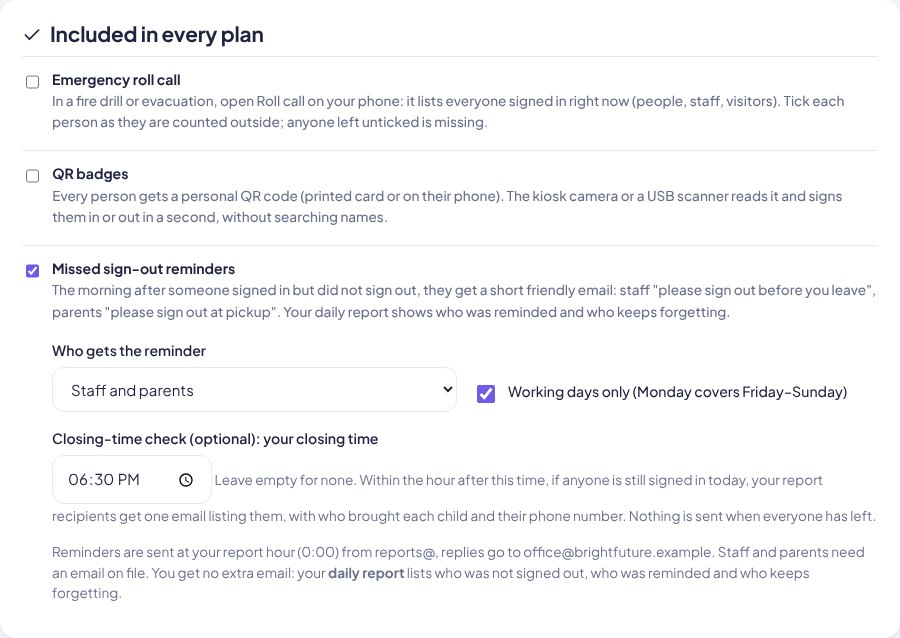
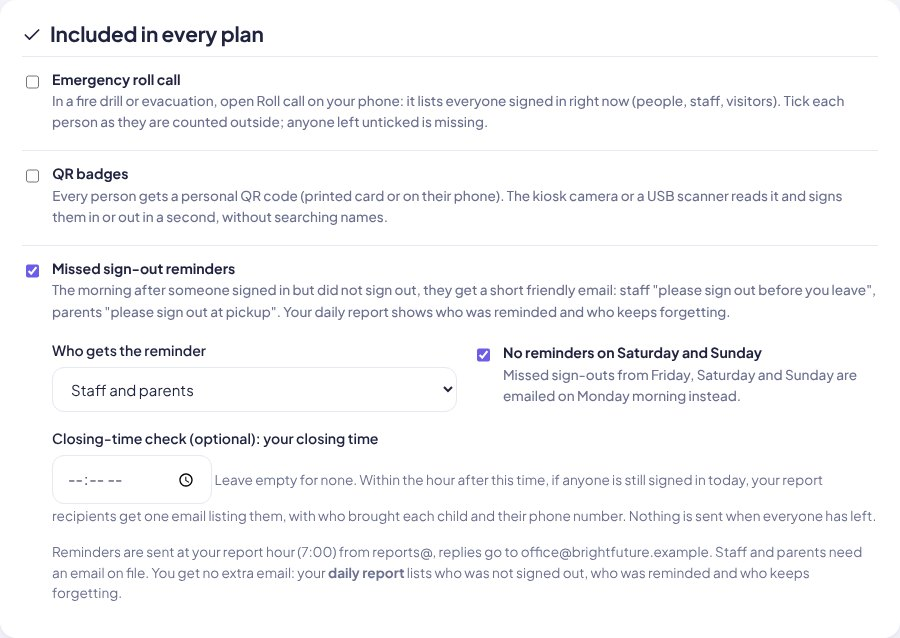
Reminders: plain wording for the weekend setting
"No reminders on Saturday and Sunday" with the explanation that Friday
to Sunday misses are emailed on Monday morning.

Claude-Session: https://claude.ai/code/session_01CfwtLEiwkJ5XMzWhTrgi97

Changed region(s): [[0.5289, 0.5361, 0.9644, 0.6552], [0.3422, 0.8339, 0.9644, 0.8934], [0.0622, 0.7445, 0.1556, 0.7743]]

diff --git a/docs/confluence/07-customer-portal.html b/docs/confluence/07-customer-portal.html
@@ -67,7 +67,7 @@
 <img src="{{IMGROOT}}/screens/51-admin-reminders-settings.jpg" alt="Missed sign-out reminder settings" width="900">
 <ol>
 <li><strong>Who gets the reminder:</strong> Staff and parents, Staff only, or Parents and guardians only.</li>
-<li><strong>Working days only</strong> (on by default): nothing at weekends; Monday's email covers Friday to Sunday.</li>
+<li><strong>No reminders on Saturday and Sunday</strong> (on by default): missed sign-outs from Friday, Saturday and Sunday are emailed on Monday morning instead. Untick it if you are open at weekends and want reminders every day.</li>
 <li><strong>When:</strong> the next morning at the portal's report hour (7:00 by default, in the portal's time zone), from reports@. Replies go to the portal's first report recipient (or the owner).</li>
 <li><strong>Who is emailed:</strong> the staff member (email on their staff record), or the parent/guardian who did the drop-off (email on the guardian record). Authorized relatives, visitors and people without an email are not emailed. One reminder per person per day.</li>
 <li><strong>Families can stop them</strong> with the link at the bottom of their email.</li>

diff --git a/app/views/admin/features.php b/app/views/admin/features.php
@@ -23,7 +23,7 @@ $toggle = function (string $key, array $f, bool $usable) use ($on) {
         <div class="grid c2" style="margin:0 0 12px 30px">
           <div class="field" style="margin:0"><label for="r-mode">Who gets the reminder</label>
             <select id="r-mode" name="signout_mode"><?php foreach (REMINDER_MODES as $mk => $ml): ?><option value="<?= e($mk) ?>" <?= ($t['signout_mode'] ?? 'both') === $mk ? 'selected' : '' ?>><?= e($ml) ?></option><?php endforeach; ?></select></div>
-          <label class="check" style="align-self:end"><input type="checkbox" name="signout_weekdays" value="1" <?= ($t['signout_weekdays'] ?? 1) ? 'checked' : '' ?>> <span>Working days only (Monday covers Friday–Sunday)</span></label>
+          <label class="check" style="align-self:end"><input type="checkbox" name="signout_weekdays" value="1" <?= ($t['signout_weekdays'] ?? 1) ? 'checked' : '' ?>> <span><b>No reminders on Saturday and Sunday</b><br><span class="muted small">Missed sign-outs from Friday, Saturday and Sunday are emailed on Monday morning instead.</span></span></label>
           <div class="field" style="margin:0;grid-column:1 / -1"><label for="r-close">Closing-time check (optional): your closing time</label>
             <input type="time" id="r-close" name="closing_time" value="<?= e(substr((string) ($t['closing_time'] ?? ''), 0, 5)) ?>" style="max-width:160px">
             <span class="muted small">Leave empty for none. Within the hour after this time, if anyone is still signed in today, your report recipients get one email listing them, with who brought each child and their phone number. Nothing is sent when everyone has left.</span></div>

diff --git a/docs/MASTER_GUIDE.md b/docs/MASTER_GUIDE.md
@@ -45,7 +45,7 @@ clinic, gym…) gets its own portal at `name.clockinoutapp.com`.
 | **Trial follow-up** | `app/lib/nurture.php`, run hourly. Emails the trial owner once per step, at most one a day, only 9:00–17:00 in the customer's time zone (portal setting, kiosk device, else their state): *import* (day 1+, no own people yet), *kiosk* (day 2+, no check-ins), *two-days* and *last-day* (with the optional promotion line). Alerts you (8:00–18:00 your time) when a trial has no check-ins after 2 days or ends tomorrow, with owner, people, check-ins and source. Every Monday from 8:00 in your time zone (`outreach_tz`) emails you a scorecard: new sign-ups, payments, paying customers, MRR, sign-ups and leads by source, open trials. Never emails paying customers or the demo. Sent emails are logged in `nurture_log`. On/off and promotion line in `/super → Settings`. |
 | **Provider alerts** | To the contact mailbox, with a copy to `alert_emails` (`provider_alert()`, `alert_copies()` in `app/lib/mailer.php`): new sign-up, card subscription, payment received, payment failed (subject starts with ACTION), cancellation, demo request, invoice request, feature request, subdomain to-do, trial alerts, Monday scorecard, suspicious-activity report, recovery-code and break-glass sign-ins. |
 | **Sales dashboard** | `/super/sales` (`app/lib/sales.php`, `app/controllers/sales.php`, `app/views/platform/super_sales.php`). Any date range (last 7/30/90 days, this or last month, this year, custom) by day, week or month, in `outreach_tz`. Headline cards with change against the previous period of equal length: prospects found, emails sent, delivered %, clicked %, replied %, demos, sign-ups (opens only when turned on); rate rings and a funnel (emailed → delivered → clicked → replied → demo → signed up); one small chart per measure over time (found, sent, people who clicked, replies, demos and sign-ups; hover for values); where every prospect stands today; which business types and states answer (emailed, bounced, clicked, replied, interested, signed up); all sources (website demo requests, trials, paying customers from outreach). Data: `prospect_events`, written by `prospect_event()` from the finder (`found`), the hourly send (`sent`), the inbox check (`bounced`, `replied`), tracked links (`clicked`), unsubscribe, the demo and sign-up forms (`prospect_converted()`) and status changes in /super → Prospects. **Clicks:** links in outreach emails go through `GET /r?t=<token>&s=<step>&to=signup|demo|home` (fixed targets, no open redirect), which counts people, not clicks, and ignores link scanners (bot user agents, HEAD, within 90 s of sending) and your own preview clicks. **Opens:** optional 1×1 image `GET /o?t=…` only when `outreach_track_opens` is on (default off: iPhones open every email by themselves and tracking images hurt cold-email delivery). **Every number is clickable:** cards, rings, funnel rows, chart bars (that day, week or month), the business-type, state and traffic-source tables open `/super/sales/list?m=<metric>&range…` (optional `kind`, `state`, `source`) with the records behind it (prospects with contact details and status now, visits with pages viewed, demo requests, sign-ups, paying customers) and a CSV download (`super_sales_list()`, `SALES_LISTS`). Server-side SVG charts, no chart library. **Call today (hot list):** prospects who clicked an outreach link in the last 7 days and have not replied, booked a demo or signed up, sign-up/demo page lookers first, with phone and contact name (`sales_hot_leads()`); also emailed every weekday from 8:00 `outreach_tz` with yesterday's visits, demo requests, sign-ups, emails and replies (`run_hot_leads()`, hourly job task `hotlist`, `hotlist_on`, `hotlist_last`). **Website traffic** (`app/lib/traffic.php`, `traffic_record()` called by `public/index.php` for the main pages `/`, `/signup`, `/demo`, `/whats-new`, `/status`, `/for/<page>` and the share links): one row per page view in `site_visits`; visitor = daily-changing hash of IP + browser with a random `traffic_salt` (no counting cookie); bots, link previews and your own /super session left out; source = `?src` / `?utm_source` / share link, else the referring site (google, bing, facebook, linkedin, chatgpt, perplexity…), else direct; rows kept 400 days (`traffic_purge()`). The dashboard shows visits, phone share, demo requests and sign-ups, visit → lead rate, visits over time, landing pages, and every source with its demo requests, sign-ups and conversion. **Attribution:** the first outside source is kept in the first-party cookie `cio_src` (90 days, HttpOnly) and `lead_source()` falls back to it, so a lead or sign-up days later is credited correctly; an outreach click also sets `cio_p` (the prospect token) and `prospect_converted_cookie()` marks that prospect as demo / signed up even with another email address. Outreach website links open the landing page for the prospect's kind of business (`sales_campaign_for()`). Website traffic also appears in the Monday scorecard. |
-| **Missed sign-out reminders** | Free optional feature (`app/lib/reminders.php`; Admin → Features & add-ons → **Missed sign-out reminders**). At the portal's report hour (default 7:00, portal time zone), for yesterday's sign-ins without a sign-out (with **Working days only**: nothing at weekends, Monday covers Friday–Sunday): staff get "⏰ Hannah, you didn't sign out on Monday" (teacher email), and the guardian who did the drop-off gets "Ava wasn't signed out at pickup on Monday" with a **Stop them** link (`/reminders/stop?g=&k=`, HMAC token with `app.key`, `reminder_optout`). Admin chooses **Staff and parents / Staff only / Parents only** (`signout_mode`). Sent from reports@ with Reply-To the portal's first report recipient (else the owner). One per person per day (`reminder_log`); visitors, authorized relatives and people without an email are not emailed. No extra admin email: the daily report's "Signed in but never signed out" list notes per person "reminder emailed", "no email on file", "family stopped reminders" and "N times in 30 days" (3+). Never sets a sign-out time automatically. Optional **closing-time check** (`closing_time`): within the hour after it, if anyone is still signed in today, one email "⚠ N still signed in after closing at …" to the report recipients with who brought each child and their phone; nothing when everyone has left; once a day. Hourly job tasks `reminders` and `closing` run before `reports`. |
+| **Missed sign-out reminders** | Free optional feature (`app/lib/reminders.php`; Admin → Features & add-ons → **Missed sign-out reminders**). At the portal's report hour (default 7:00, portal time zone), for yesterday's sign-ins without a sign-out (with **No reminders on Saturday and Sunday**, on by default: nothing at weekends; Friday–Sunday misses are emailed on Monday morning): staff get "⏰ Hannah, you didn't sign out on Monday" (teacher email), and the guardian who did the drop-off gets "Ava wasn't signed out at pickup on Monday" with a **Stop them** link (`/reminders/stop?g=&k=`, HMAC token with `app.key`, `reminder_optout`). Admin chooses **Staff and parents / Staff only / Parents only** (`signout_mode`). Sent from reports@ with Reply-To the portal's first report recipient (else the owner). One per person per day (`reminder_log`); visitors, authorized relatives and people without an email are not emailed. No extra admin email: the daily report's "Signed in but never signed out" list notes per person "reminder emailed", "no email on file", "family stopped reminders" and "N times in 30 days" (3+). Never sets a sign-out time automatically. Optional **closing-time check** (`closing_time`): within the hour after it, if anyone is still signed in today, one email "⚠ N still signed in after closing at …" to the report recipients with who brought each child and their phone; nothing when everyone has left; once a day. Hourly job tasks `reminders` and `closing` run before `reports`. |
 | **Outreach to prospects** | `/super → Prospects` (`app/lib/prospects.php`, `app/controllers/prospects.php`). Prospects are pasted in, or posted by the daily Claude prospect finder to `POST /api/prospects` (header `X-Api-Key`; only its hash is stored; `GET` returns domains already known; `GET ?summary=1` returns counts by status, today's sends, the last 50 sends, today's delivery numbers (accepted, in Sent, bounced, replied), the last 30 delivery-log rows, the mailbox check status and the hourly job status, read-only). Each gets email 1 written for its kind of business (`prospect_pitch()`: childcare/tutoring/schools, clinics and dental, offices, retail and restaurants, gyms, construction and field crews; matching banner and sign-up link with `industry=`), a follow-up after 4 days and a last note 5 days later, in the prospect's local time from their state (`STATE_TZ`, `prospect_send_window()`): Tue–Thu 9–12 and 13–15, Mon 10–12 and 13–15, Fri 9–12; at most `prospects_daily` (default 25) a day and `prospects_daily`/4 (7) per hourly run, sent from the contact mailbox with `List-Unsubscribe` + one-click headers (Gmail/Yahoo unsubscribe button, `POST /unsubscribe/one-click?t=…`). **Delivery proof** (`app/lib/mailbox.php`, `prospect_sends`): every email is logged with the mail server's own answer (`250 … queued as …`) and a copy is filed in the mailbox's **Sent** folder over IMAP (email sent by an app through SMTP never appears in Sent by itself); `/super → Prospects → Delivery log` lists them. **Inbox check** (hourly, before sending, read-only `EXAMINE`): bounces (`Final-Recipient`/`X-Failed-Recipients`, delays ignored) set the prospect to Bounced with the server's reason; a reply from the prospect, or from a colleague answering our email (`In-Reply-To`), sets Replied, stops the sequence and emails you an alert; out-of-office replies are noted and the sequence continues; forged senders (DMARC fail, or SPF and DKIM both fail in Authentication-Results) are ignored (`mailbox_spoofed()`). IMAP server = `imap_host` setting, default the SMTP host with `smtp.` → `imap.` (Hostinger: imap.hostinger.com:993 SSL), same login as the contact sender. **Microsoft 365 (mail driver `graph`, the live setup):** outreach emails are sent as complete MIME messages (`graph_send_mime()`), so List-Unsubscribe and our Message-ID are kept and Microsoft files each one in **Sent Items**; the inbox check reads the inbox through Graph (`mailbox_check_graph()`, `graph_inbox_since`), which needs the **Mail.Read** application permission (with admin consent) on the same Entra app as Mail.Send; without it the Delivery log says exactly what to add and sending is unaffected. `mailbox_problem()` explains on the page and in `?summary=1` why copies or the check are off. Stops when the address or its organization signs up or books a demo, replies, bounces, is marked Replied/Bounced/Removed, or unsubscribes (`/unsubscribe?t=…`, button page). Skips k12/.gov addresses, no-reply style addresses, duplicates and a second address at the same organization (franchise mailbox domains such as mathnasium.com or ikumon.com count each address as its own center, `SHARED_DOMAINS`). Nothing is sent until sending is turned on and a name and postal address are saved. **Send me a test** (same page) emails all 3 messages for a sample business to a saved list of up to 10 test addresses (`test_recipients`) at once, subject `[TEST n/3]`; **Run the hourly job now** runs `run_hourly_jobs()` from the browser and shows its output. Weekly numbers appear in the Monday scorecard. |
 | **Features & add-ons** | Portal → Admin → **Features & add-ons** (`app/lib/features.php`, `app/controllers/features.php`). Every feature is off until the customer admin turns it on. Free on every plan: **Emergency roll call** (Admin → Emergency roll call: everyone signed in now, tick as counted, missing list, print) and **QR badges** (`app/lib/badges.php`: personal code `CIO1-` + 12 characters per student and staff member; Admin → QR badges prints cards, emails staff their badge and families their child's badge link `/badge?c=…`, and **New badge** cancels a lost one; the kiosk shows **Scan my badge** (tablet camera, `public/assets/js/vendor/jsQR.js`) and also accepts USB/Bluetooth scanners that type the code + Enter; `GET /api/badge` returns the person and opens the normal flow, so scans and taps mix: staff/adults are signed in or out with one scan, children go to "Who is with them?"). **Check-in method** (Admin → QR badges, per group: students / staff): *Tap name or scan badge* (default), *Scan badge only* (name search and sign-in without a badge are refused by the server; **Forgot my badge?** asks for the front-desk code, 4–8 digits, stored hashed in `tenants.desk_pin_hash`, which opens name search for 2 minutes, 5 wrong tries lock it), or *Tap name only*. A badge scan allows that one person's sign-in for 5 minutes. Pickup tiles and visitors are never restricted. Camera allowed by `Permissions-Policy: camera=(self)`. One **$19/month add-on pack per industry**, and a customer only ever sees its own: **Safe Pickup** (school, tutoring: family PIN, parent notifications) or **Staff Hours** (all other industries: phone check-in, payroll export). Pack features work free during the trial. **Support:** Regular (included, email Mon–Fri 8 AM–6 PM Mountain) or **Premium Support $99/month** (24/7 for urgent problems answered within 1 hour, technical account manager, one-click help, proactive monitoring, setup/import, monthly health check). Requests email you (provider alert); you activate the pack or Premium Support in `/super → Subscribers` after billing. |
 | **Status page** | `clockinoutapp.com/status` (`app/lib/status.php`): website and database, customer portals (own databases reachable), email (last send OK or failed, recorded by `send_mail()`), sign-in, scheduled jobs (hourly job age and errors), card payments (last Stripe event), backups (age of the newest `backups/` folder). Public visitors see plain states; the provider signed in to `/super` also sees details, outreach and the lead finder. `/status.json` for uptime monitors (HTTP 503 when something is down). Linked in the site footer. |
@@ -579,3 +579,4 @@ step must update this guide **in the same commit**:
 | 2026-11-17 | Restore check easier to find: **Restore check** in the /super top menu and a button at the top of /super → Settings. |
 | 2026-11-17 | Restore check: Stripe is tested on Checkout Sessions and Customer portal (what the app uses), so restricted keys pass; provider error messages no longer show account IDs or key fragments. |
 | 2026-11-17 | Missed sign-out reminders (schema 22, free, optional): next-morning emails to staff and/or the parent who dropped off (admin chooses), stop link for families, notes in the daily report instead of an extra admin email, optional same-evening closing-time check for the admin. |
+| 2026-11-17 | Reminder setting renamed to "No reminders on Saturday and Sunday" with a plain explanation. |
